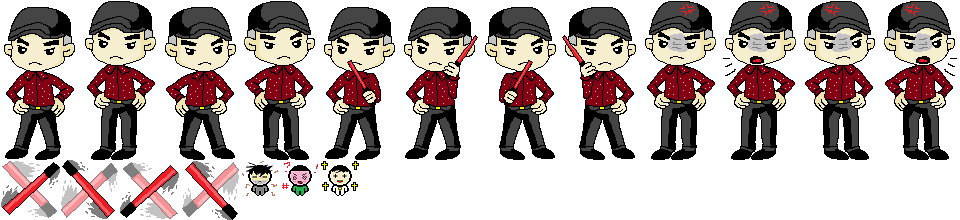
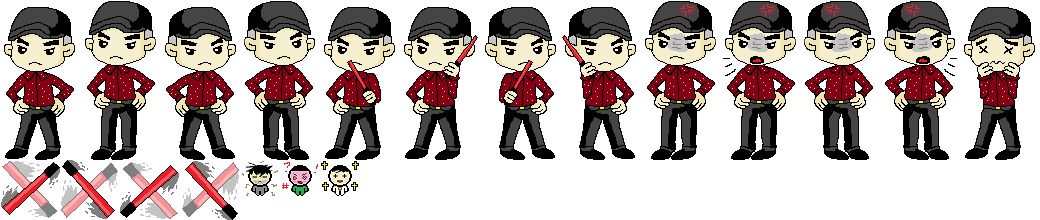
gonextstagedoor

diff --git a/src/main/resources/static/js/main.js b/src/main/resources/static/js/main.js
@@ -6,6 +6,10 @@
 				return;
 			}
 			
+			if(goNextStageFlag) {
+				return;
+			}
+			
 			// ESC
 			
 			if(key==27) {
@@ -117,8 +121,7 @@
 		}
 		
 		function doorLockSetting() {
-			if(monsterExtinctCheck()) { // all monsters in the room are dead or
-										// no monster room
+			if(monsterExtinctCheck()) { // all monsters in the room are dead or no monster room
 				var doors = roomInfo[roomNo].doors;
 				for(var i = 0; i < doors.length; i++) {
 					if(doors[i]==3 || doors[i]==7) {
@@ -341,9 +344,7 @@
 			}
 			
 			for(var i = 0; i < doorImgInfo.length; i++) { // unlock the door
-				if(playerInfo.key < 1 || !monsterExtinctCheck()) { // no key or
-																	// monsters
-																	// exist
+				if(playerInfo.key < 1 || !monsterExtinctCheck()) { // no key or monsters exist
 					break;
 				}
 				if(doorImgInfo[i] == null) {
@@ -540,12 +541,7 @@
 			playerCollisionCheck(bombInfo.x, bombInfo.y, 80, 80, 2);
 		}
 		
-		function playerCollisionCheck(objX, objY, objWidth, objHeight, dmg) { // monster,
-																				// boss
-																				// and
-																				// their
-																				// attack,
-																				// bomb
+		function playerCollisionCheck(objX, objY, objWidth, objHeight, dmg) { // monster, boss and their attack, bomb
 			var vx = (playerInfo.hitBox.x + playerInfo.hitBox.width/2) - (objX + objWidth/2);
 			var vy = (playerInfo.hitBox.y + playerInfo.hitBox.height/2) - (objY + objHeight/2);
 			var boundX = (playerInfo.hitBox.width + objWidth)/2;
@@ -633,6 +629,11 @@
 				drawBomb();
 			}
 			
+			if(goNextStageDoor != null && goNextStageDoor.roomNo == roomNo) {
+				ctx.fillStyle = '#000000';
+				ctx.fillRect(goNextStageDoor.x, goNextStageDoor.y, 60, 60);
+			}
+			
 			var bodyCrop = Math.floor(directionCode/2);
 			if(playerInfo.invincibleFlag) {
 				ctx.globalAlpha = 0.5;
@@ -696,8 +697,7 @@
 					var ix = item[i][0] * 60 + 60;
 					var iy = item[i][1] * 60 + 60;
 					ctx.drawImage(itemImg, 170, 0, 30, 20, ix + 15, iy + 25, 30, 20); // prop
-					ctx.drawImage(itemImg, item[i][2]%10*20, Math.floor(item[i][2]/10)*20, 20, 20, ix + 20, iy + 15, 20, 20); // item
-																																// icon
+					ctx.drawImage(itemImg, item[i][2]%10*20, Math.floor(item[i][2]/10)*20, 20, 20, ix + 20, iy + 15, 20, 20); // item icon
 				}
 			}
 		}
@@ -908,9 +908,14 @@
 				playerCollisionCheck(monster[i].hitBox.x, monster[i].hitBox.y, monster[i].hitBox.width, monster[i].hitBox.height, monster[i].status.damage);
 			}
 			if(bossInfo != null) { // boss exists
-				if(bossInfo.status.life <= 0) { // the boss died
+				if(bossInfo.status.end > 30) { // the boss died
 					bossInfo = null;
 					roomInfo[roomNo].bossRoom = false;
+					goNextStageDoor = {
+						x: 240,
+						y: 120,
+						roomNo: roomNo
+					};
 					doorLockSetting();
 				} else {
 					bossInfo.act();
@@ -920,7 +925,7 @@
 						ctx.drawImage(bossInfo.img, bossInfo.attack[i].cropX, bossInfo.attack[i].cropY, bossInfo.attack[i].size, bossInfo.attack[i].size, bossInfo.attack[i].x, bossInfo.attack[i].y, bossInfo.attack[i].size, bossInfo.attack[i].size);
 						playerCollisionCheck(bossInfo.attack[i].x, bossInfo.attack[i].y, bossInfo.attack[i].size, bossInfo.attack[i].size, bossInfo.status.damage);
 					}
-					ctx.fillStyle = "#000000";
+					ctx.fillStyle = "#000000"; // hp bar
 					ctx.fillRect(140, 10, 260, 20);
 					ctx.fillStyle = "#FF0000";
 					ctx.fillRect(145, 15, bossInfo.status.life * 10, 10);
@@ -950,6 +955,8 @@
 			chestCheck();
 			
 			itemGetCheck();
+			
+			goNextStageCheck()
 		}
 		
 		function drawInfo() {
@@ -1084,4 +1091,52 @@
 		
 		function restart() {
 			location.href="/";
+		}
+		
+		function goNextStageCheck() {
+			if(goNextStageDoor == null || goNextStageDoor.roomNo != roomNo) {
+				return;
+			}
+			var pmx = playerInfo.moveBox.x + playerInfo.moveBox.width/2;
+			var pmy = playerInfo.moveBox.y + playerInfo.moveBox.height/2;
+			var dx = goNextStageDoor.x + 30;
+			var dy = goNextStageDoor.y + 30;
+			
+			if(Math.abs(pmx-dx) < 20 && Math.abs(pmy-dy) < 20) {
+				controlFlag = false;
+				goNextStageFlag = true;
+				clearInterval(drawInterval);
+				
+				directionCode = 2;
+				attackDirection = 1;
+				var bodyCrop = Math.floor(directionCode/2);
+				var gx = goNextStageDoor.x - 10;
+				var gy = goNextStageDoor.y - 20;
+				var my = -5;
+				var count = 0;
+				var goNextInterval = setInterval(function() {
+					ctx.clearRect(0, 0, cw, ch)
+					
+					ctx.drawImage(roomImg, 0, 0);
+			
+					drawDoor();
+			
+					ctx.fillStyle = '#C3C3C3';
+					ctx.fillRect(60, 60, floor.width, floor.height);
+					
+					ctx.fillStyle = '#000000';
+					ctx.fillRect(goNextStageDoor.x, goNextStageDoor.y, 60, 60);
+					
+					ctx.drawImage(playerImg, bodyCrop * 80, 80, 80, 80, gx, gy, 80, 80);
+					ctx.drawImage(playerImg, attackDirection * 80, 0, 80, 80, gx, gy, 80, 80);
+					
+					my = (count < 10) ? -5 : 5;
+					gy += my;
+					count++;
+					if(count >= 20) {
+						clearInterval(goNextInterval);
+						location.href="/gonext";
+					}
+				}, 20);
+			}
 		}

diff --git a/src/main/resources/static/js/boss.js b/src/main/resources/static/js/boss.js
@@ -52,58 +52,23 @@ function subwayAgent() {
 			life : 25,
 			damage : 1,
 			speed : 5,
-			range : 0
+			range : 0,
+			end: 0
 		},
 		attack : [],
 		act : function() {
-			if(this.counter <= 40 && this.counter%2 == 0) {
-				this.move();
-			}
-			
-			switch(this.counter) {
-			case 50:
-				this.pattern = Math.floor(Math.random() * 2);
+			if(this.status.life > 0) {
+				if(this.counter <= 40 && this.counter%2 == 0) {
+					this.move();
+				}
 				
-				var dir = (playerInfo.moveBox.x < this.moveBox.x) ? 0 : 1;
-				this.cropX = (this.pattern == 0) ? 320 : 640;
-				this.cropX += dir * 160;
-				break;
-			case 60:
-				if(this.pattern == 0) {
-					var dir = (playerInfo.moveBox.x < this.moveBox.x) ? 0 : 1;
-					this.cropX = 400 + dir * 160;
-				}
-				break;
-			case 110:
-				var dir = (playerInfo.moveBox.x < this.moveBox.x) ? 0 : 1;
-				this.cropX = (this.pattern == 0) ? 0 : 720;
-				this.cropX += dir * 160;
-				this.attackPattern();
-				break;
+				this.attackReady();
+				this.attackCheck();
+			} else {
+				this.lifeZero();
 			}
-
-			this.counter++;
 			
-			var remove = [];
-			for(var i = 0; i < this.attack.length; i++) {
-				this.attack[i].x += this.attack[i].mx;
-				this.attack[i].y += this.attack[i].my;
-				if(this.pattern == 0) {
-					this.attack[i].cropX += 60;
-					if(this.attack[i].cropX >= 240) {
-						this.attack[i].cropX = 0;
-					}
-				}
-				if(this.attack[i].x < -this.attack[i].size || this.attack[i].x > 540 || this.attack[i].y < -this.attack[i].size || this.attack[i].y > 420) {
-					remove.push(i);
-				}
-			}
-			remove = remove.sort(function(a, b) {
-				return b-a;
-			});
-			for(var i = 0; i < remove.length; i++) {
-				this.attack.splice(remove[i], 1);
-			}
+			this.counter++;
 			
 			if(this.counter > 210) {
 				this.counter = 0;
@@ -147,6 +112,57 @@ function subwayAgent() {
 					this.setBoxes();
 				}
 			}
+		},
+		attackReady : function() {
+			switch(this.counter) {
+			case 50:
+				this.pattern = Math.floor(Math.random() * 2);
+				
+				var dir = (playerInfo.moveBox.x < this.moveBox.x) ? 0 : 1;
+				this.cropX = (this.pattern == 0) ? 320 : 640;
+				this.cropX += dir * 160;
+				break;
+			case 60:
+				if(this.pattern == 0) {
+					var dir = (playerInfo.moveBox.x < this.moveBox.x) ? 0 : 1;
+					this.cropX = 400 + dir * 160;
+				}
+				break;
+			case 110:
+				var dir = (playerInfo.moveBox.x < this.moveBox.x) ? 0 : 1;
+				this.cropX = (this.pattern == 0) ? 0 : 720;
+				this.cropX += dir * 160;
+				this.attackPattern();
+				break;
+			}
+		},
+		attackCheck : function() {
+			var remove = [];
+			for(var i = 0; i < this.attack.length; i++) {
+				this.attack[i].x += this.attack[i].mx;
+				this.attack[i].y += this.attack[i].my;
+				if(this.pattern == 0) {
+					this.attack[i].cropX += 60;
+					if(this.attack[i].cropX >= 240) {
+						this.attack[i].cropX = 0;
+					}
+				}
+				if(this.attack[i].x < -this.attack[i].size || this.attack[i].x > 540 || this.attack[i].y < -this.attack[i].size || this.attack[i].y > 420) {
+					remove.push(i);
+				}
+			}
+			remove = remove.sort(function(a, b) {
+				return b-a;
+			});
+			for(var i = 0; i < remove.length; i++) {
+				this.attack.splice(remove[i], 1);
+			}
+		},
+		lifeZero : function() {
+			this.cropX = 960;
+			var vibrate = (this.counter%4<2) ? -20 : 20;
+			this.x += vibrate;
+			this.status.end++;
 		},
 		setBoxes : function() {
 			this.moveBox.x = this.x;
@@ -223,6 +239,9 @@ function subwayAgent() {
 		},
 		damaged : function(dmg) {
 			this.status.life -= dmg;
+			if(this.status.life < 0) {
+				this.status.life = 0;
+			}
 		}
 	}
 	

diff --git a/src/main/resources/templates/game.html b/src/main/resources/templates/game.html
@@ -59,6 +59,7 @@
 		var itemGetObj = null;
 		var monster = [];
 		var bossInfo = null;
+		var goNextStageDoor = null;
 		
 		var drawInterval;
 		
@@ -73,6 +74,7 @@
 		var controlFlag = true;
 		var attackFlag = true;
 		var gameOverFlag = false;
+		var goNextStageFlag = false;
 		
 		document.addEventListener("keydown", keyDown, false);
 		document.addEventListener("keyup", keyUp, false);
@@ -118,7 +120,7 @@
 					this.hitBox.y = this.y + 15;
 				},
 				damaged: function(dmg) {
-					if(!this.invincibleFlag) {
+					if(!this.invincibleFlag && dmg > 0) {
 						if(this.status.elecLife > 0) {
 							this.status.elecLife -= dmg;
 						} else {
